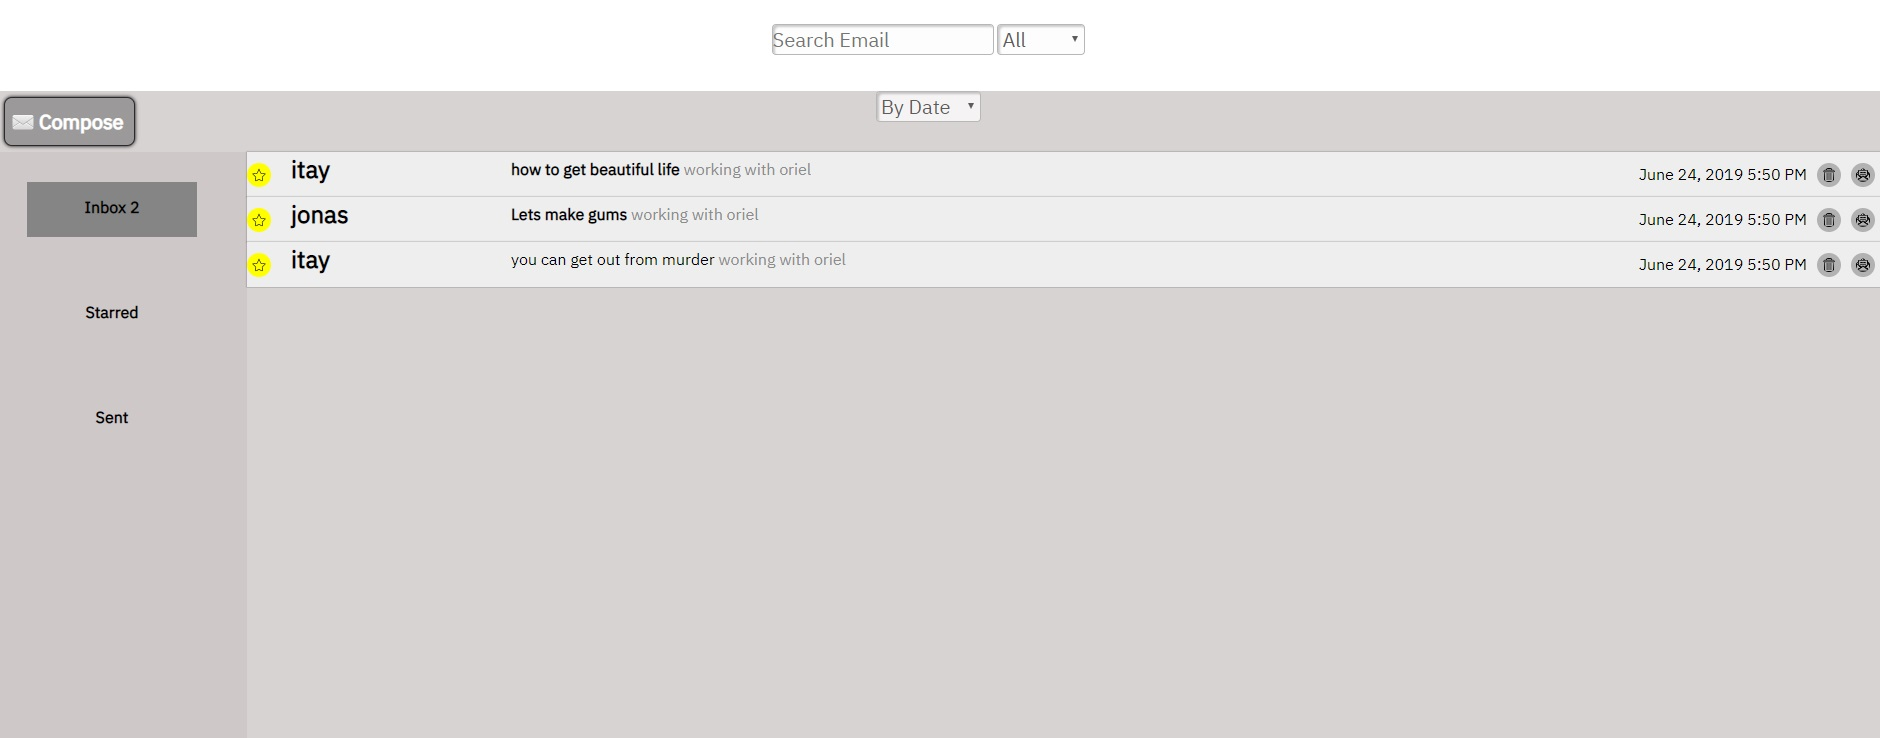
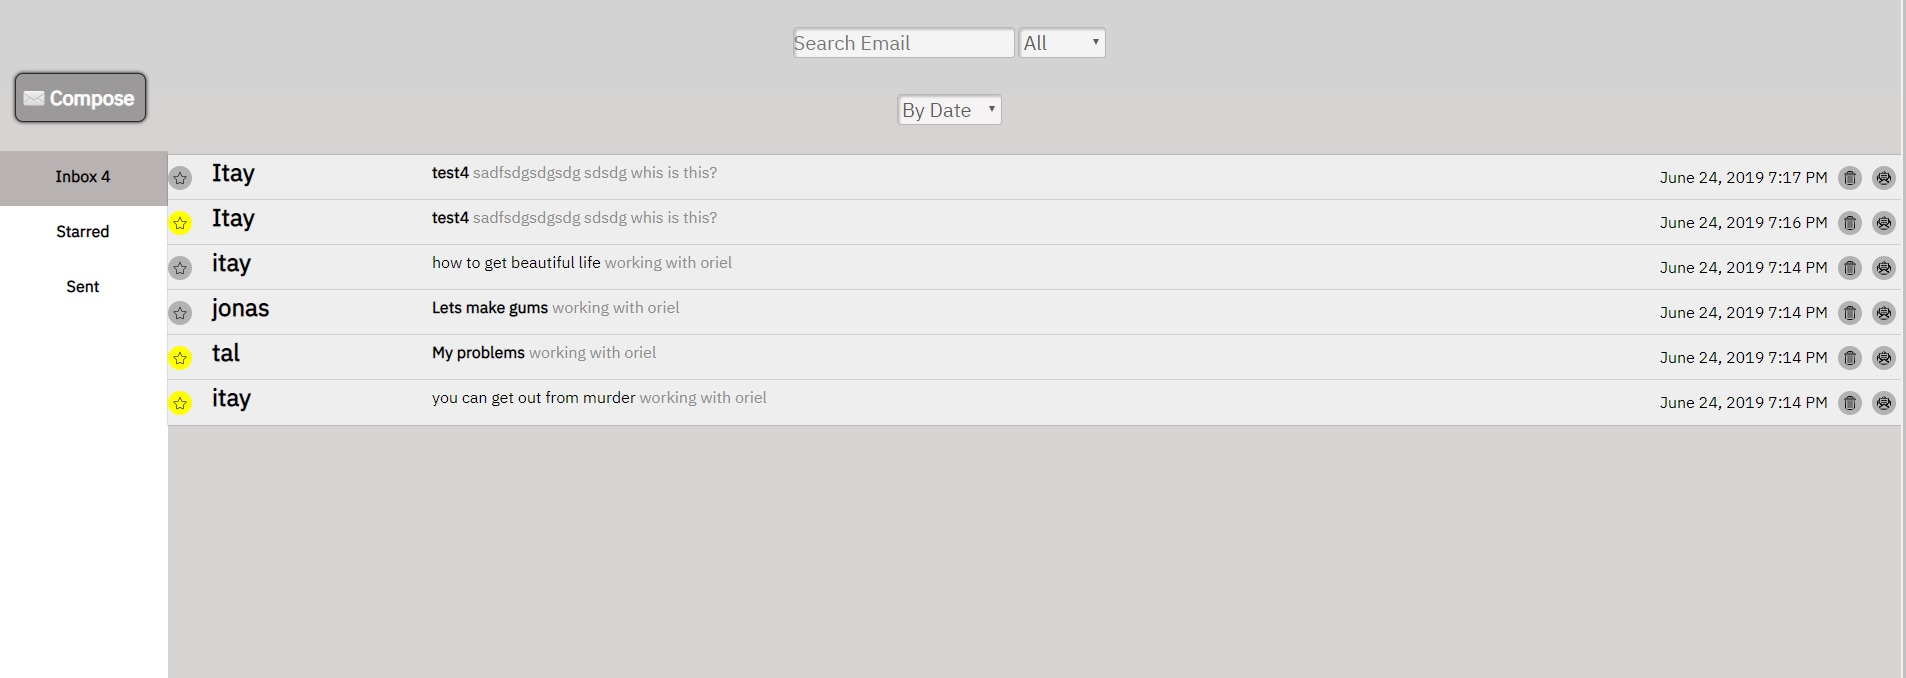
100% functions

diff --git a/js/apps/email/pages/email-app.cmp.js b/js/apps/email/pages/email-app.cmp.js
@@ -9,6 +9,7 @@ import emailCompose from '../cmps/email-compose.cmp.js';
 import emailSort from '../cmps/email.sort.js'
 import emailDetails from '../pages/email-details.cmp.js';
 import emailStarred from '../cmps/email-starred.cmp.js';
+import emailSent from '../cmps/email-sent.cmp.js';
 
 export default {
     template: `
@@ -18,8 +19,17 @@ export default {
             <button class="email-btn btn-compose" @click="isActivated">Compose</button>
             <div class="container">
                 <email-side-nav></email-side-nav>
-                <email-starred v-if="$route.path === '/miss-email/starred'" v-for="currentEmail,idx in emails" :key="idx" :email="currentEmail"></email-starred>
                 <router-view :emails="emailsForDisplay"></router-view>
+                <section v-if="$route.path === '/miss-email/starred'" class="emails-list">
+                    <section>
+                        <email-starred v-for="currentEmail,idx in emails" :key="idx" :email="currentEmail"></email-starred>
+                    </section>
+                </section>
+                <section v-if="$route.path === '/miss-email/sent'" class="emails-list">
+                    <section>
+                        <email-sent v-for="currentEmail,idx in emails" :key="idx" :email="currentEmail"></email-sent>
+                    </section>
+                </section>
             </div>
             <email-compose @send-clicked="isActivated" :isShown="this.isShown"></email-compose>
         </section>
@@ -66,7 +76,8 @@ export default {
         emailFilter,
         emailSort,
         emailDetails,
-        emailStarred
+        emailStarred,
+        emailSent
     },
 
     methods: {

diff --git a/js/apps/email/services/email.service.js b/js/apps/email/services/email.service.js
@@ -85,7 +85,9 @@ function addEmail(name, subject, desc, date) {
         message: {
             subject,
             desc,
-            isRead: false
+            isRead: false,
+            isSent: true,
+            isStarred: false
         }
     }
     emailDB.unshift(email);
@@ -106,7 +108,8 @@ function getEmailData() {
             message: {
                 subject: 'how to get beautiful life',
                 desc: 'working with oriel',
-                isRead: false,
+                isRead: true,
+                isSent: true,
                 isStarred: false
             }
         },
@@ -121,7 +124,8 @@ function getEmailData() {
             message: {
                 subject: 'Lets make gums',
                 desc: 'working with oriel',
-                isRead: false,
+                isRead: true,
+                isSent: false,
                 isStarred: false
             }
         },
@@ -137,6 +141,7 @@ function getEmailData() {
                 subject: 'My problems',
                 desc: 'working with oriel',
                 isRead: false,
+                isSent: false,
                 isStarred: false
             }
         },
@@ -152,6 +157,7 @@ function getEmailData() {
                 subject: 'you can get out from murder',
                 desc: 'working with oriel',
                 isRead: true,
+                isSent: false,
                 isStarred: true
             }
         },

diff --git a/js/apps/email/cmps/email-preview.cmp.js b/js/apps/email/cmps/email-preview.cmp.js
@@ -18,9 +18,9 @@ export default {
                 </div>
                 <div class="right-side">
                 <span>{{date}}</span>
-            <img @click.stop='deleteEmail' src='../../../../svg/trash-can.svg' alt="Delete mail"/>
-            <img @click.stop='changeReadorUnread' src='../../../../svg/message.svg'/>
-            </div>
+                <img @click.stop='deleteEmail' src='../../../../svg/trash-can.svg' alt="Delete mail"/>
+                <img @click.stop='changeReadorUnread' src='../../../../svg/message.svg'/>
+                </div>
             </div>
         </section>
         `,

diff --git a/js/apps/email/cmps/email-sent.cmp.js b/js/apps/email/cmps/email-sent.cmp.js
@@ -3,7 +3,7 @@ import {emailService} from '../services/email.service.js'
 
 export default {
     template: `
-        <section class="email-preview-container" @click.stop = 'goToMail' v-show="email.message.isStarred">      
+        <section class="email-preview-container" @click.stop = 'goToMail' v-show="email.message.isSent"> 
             <img @click.stop="starredEmail" src="../../../../svg/star.svg" :class="{yellowed: email.message.isStarred}"/>
             <h2>{{email.from.name}}</h2>
             <div class="massage-content">

diff --git a/css/email-app.css b/css/email-app.css
@@ -139,3 +139,13 @@ padding: 30px;
 .sender>* {
     margin-right: 5px;
 }
+
+.email-starred-container {
+    background-color: #eeeeee;
+    display: flex;
+    text-align: left;
+    cursor: pointer;
+    line-height: 35px;
+    transition: .3s;
+    box-shadow: 0px 0px 1px #0000003b
+}
